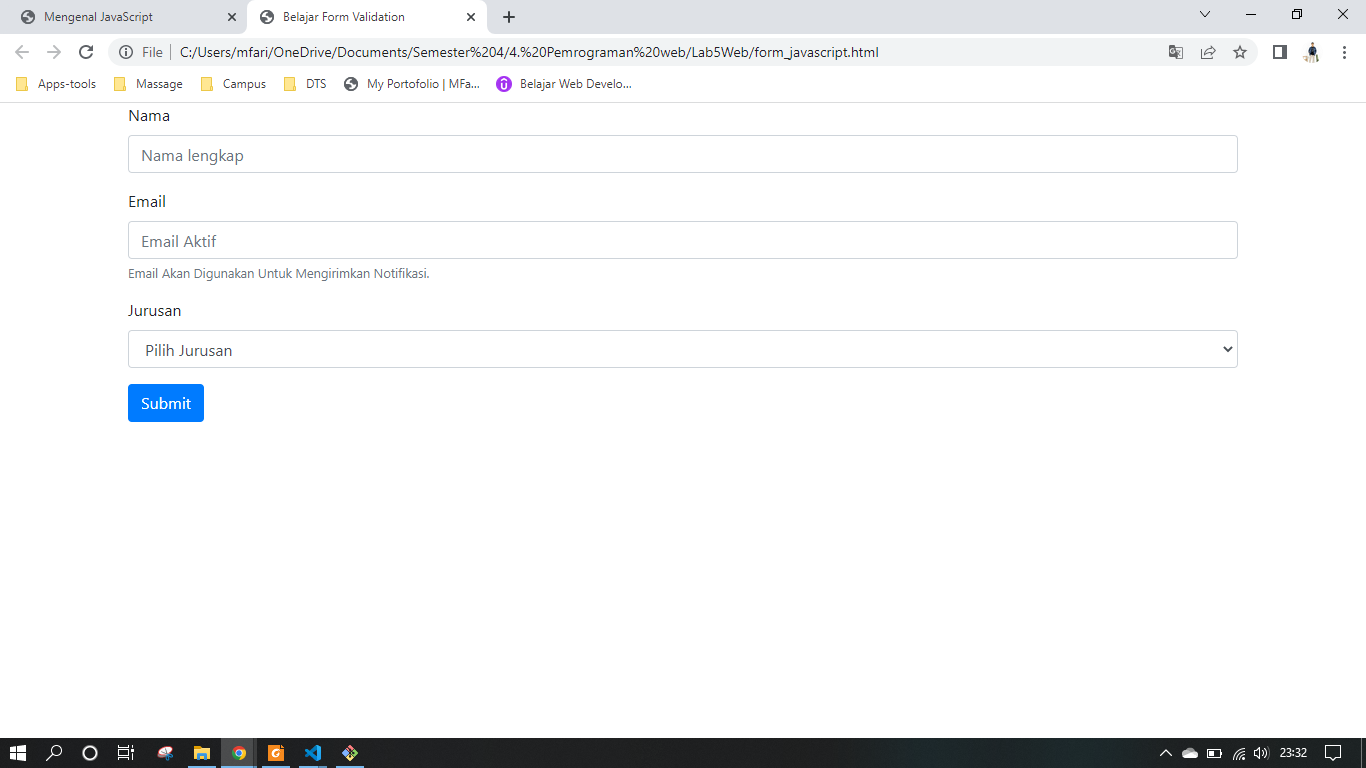
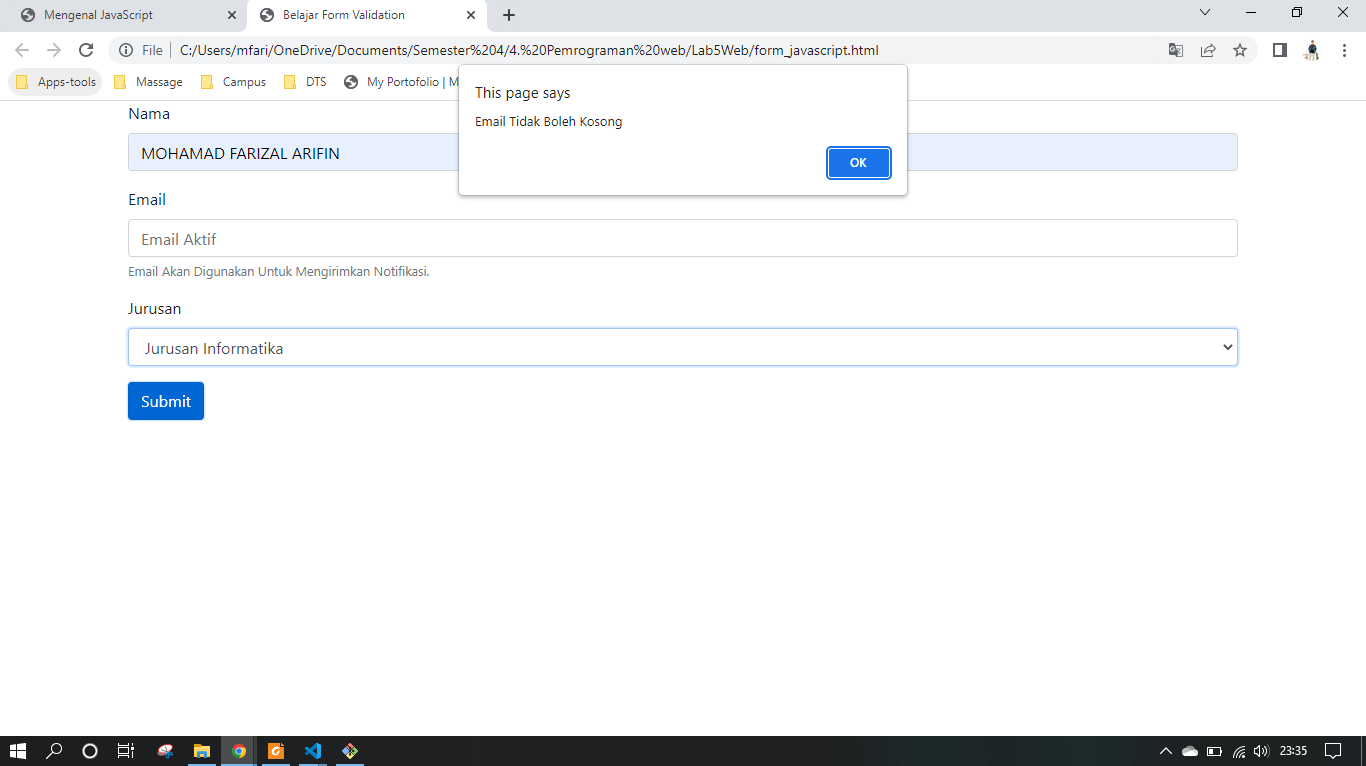
Update README.md

diff --git a/README.md b/README.md
@@ -86,7 +86,7 @@ Pilihan menggunakan checkBox dengan perhitungan otomatis<br>
 **Pertanyaan dan Tugas**<br>
 1. Buat script untuk melakukan validasi pada isian form.<br>
 
-**Jawab :**
+**Jawab :**<br>
 Berikut script<br>
 
 ```
@@ -143,7 +143,7 @@ Berikut script<br>
 </html>
 ```
 <br>
-Berikut hasilnya :<br>
+Berikut hasilnya, gambar dibawah memberi info bahwa textbox tersebut tidak boleh kosong dan menunjukan posisi textbox yang dimaksud dengan method .focus dari perintah javascript. <br>
 <br>
 
 ![gambar 12](image/pict12.PNG) <br>
